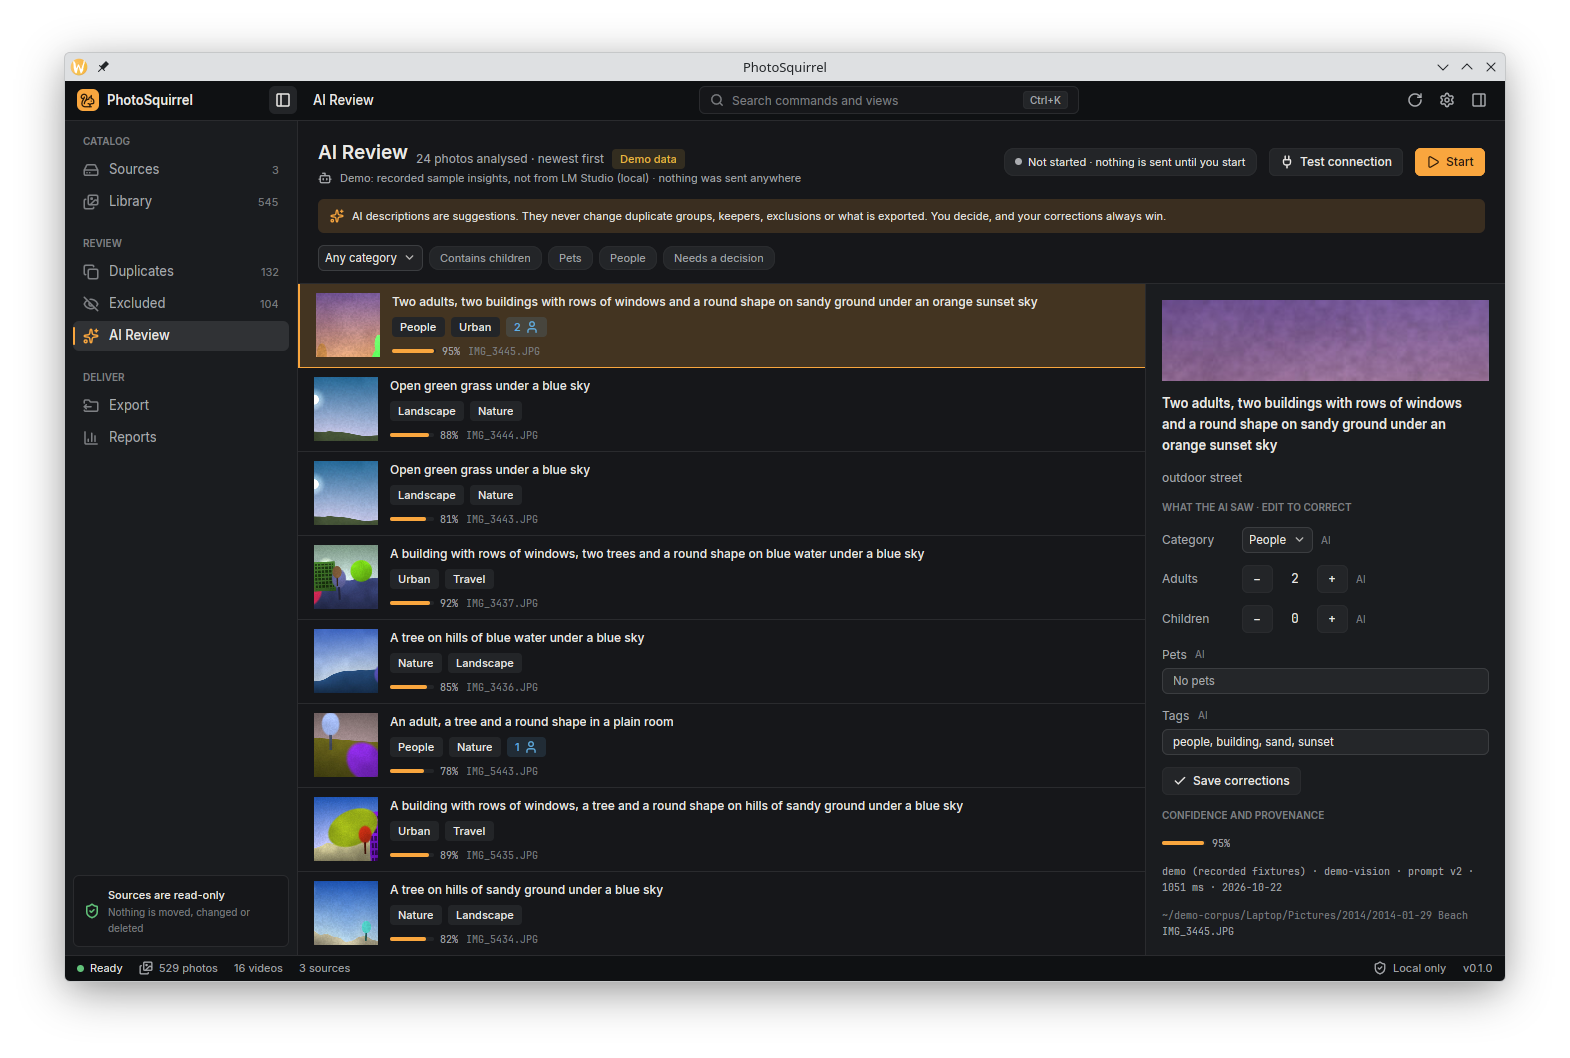
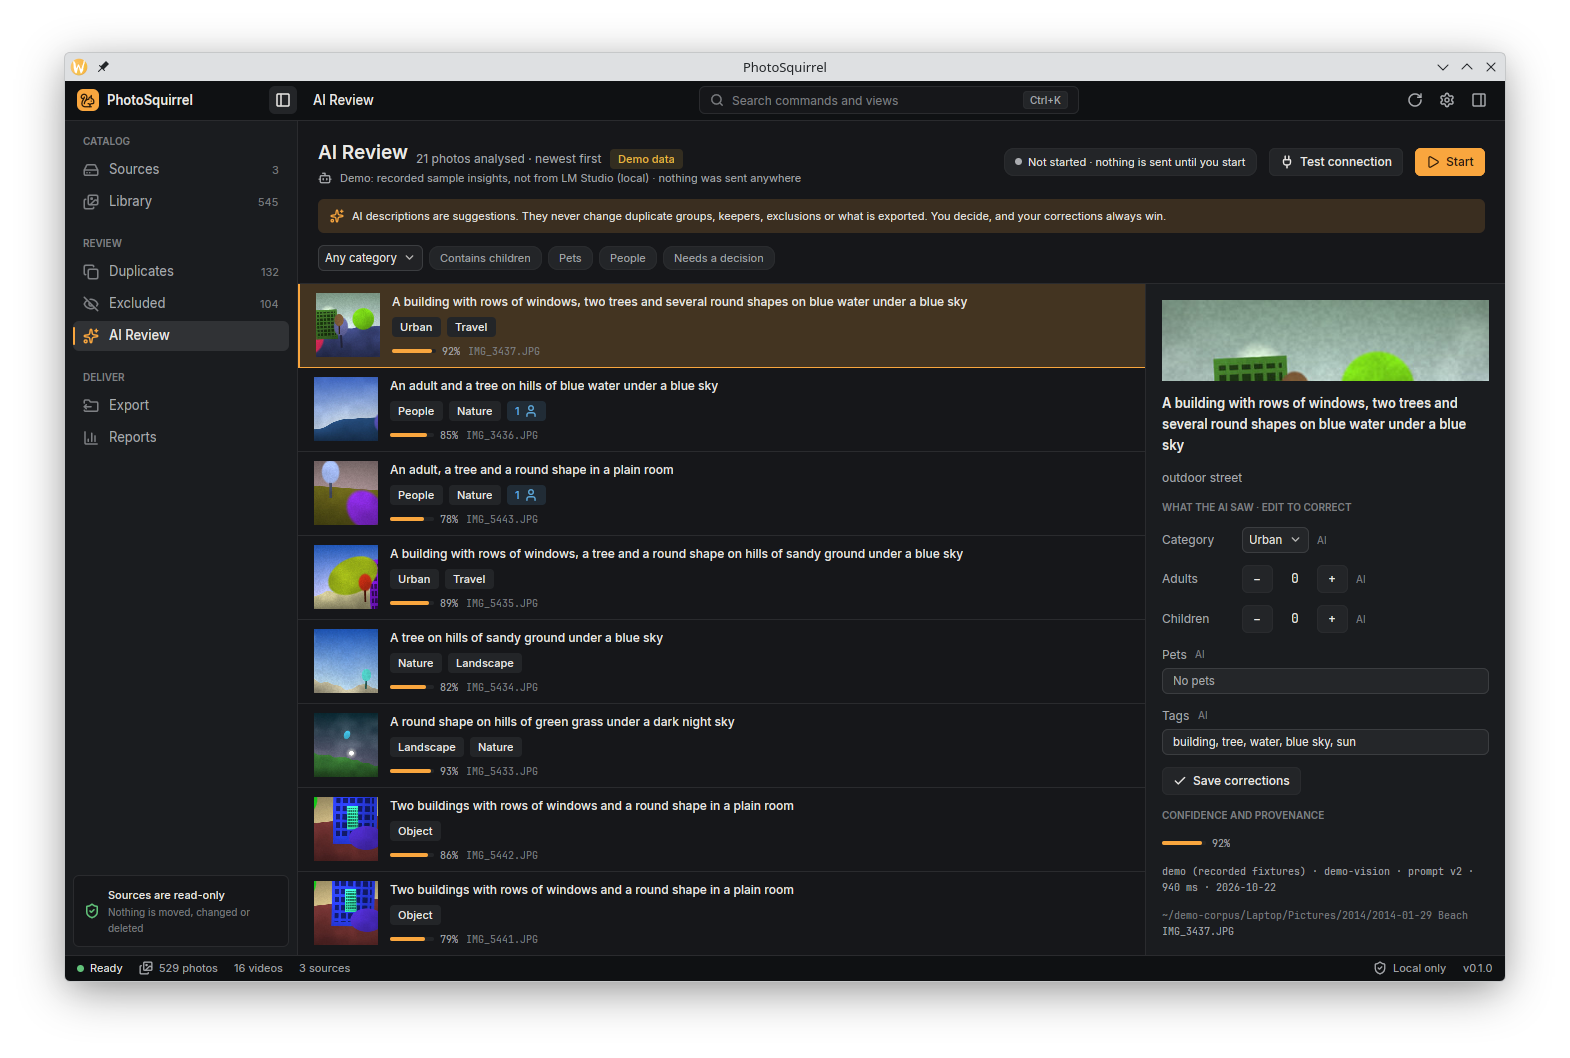
Demo insights describe the frame; recapture three README screenshots
- Demo AI descriptions counted the shapes of a 4:3 frame for every image,
  so portrait shots were described with shapes outside the frame (the
  AI Review screenshot's selected row). The summary now uses each shot's
  display aspect (FramedScene).
- PHOTOSQUIRREL_REVIEW_GROUP (dev-only, like PHOTOSQUIRREL_REVIEW_TAB)
  opens Duplicates on a given list index, scrolled to and primed, for
  scripted screenshots.
- Recaptured on the demo library: AI Review with a row whose image matches
  its description; Duplicates with a clear decision (more pixels against a
  resized copy) instead of an exact-copy tie decided by folder depth; the
  scan dashboard in a taller window so the sources of the run show.

Claude-Session: https://claude.ai/code/session_01XRBTstf5nEQw24ksDZxYk2

diff --git a/crates/ps-fixtures/src/synth.rs b/crates/ps-fixtures/src/synth.rs
@@ -446,12 +446,21 @@ pub struct SceneSummary {
 
 /// A person this tall (in image heights) or taller reads as an adult.
 const ADULT_HEIGHT: f32 = 0.16;
-/// Shapes whose centre lies further out than this (image heights from the centre) are mostly out of frame.
-const IN_FRAME_X: f32 = 0.62;
+/// Shapes whose centre lies within this distance (image heights) of the frame's left or right edge, or beyond
+/// it, are mostly out of frame.
+const IN_FRAME_MARGIN: f32 = 0.05;
 
 impl Scene {
-    /// What this scene shows ([`SceneSummary`]). Shapes centred outside the frame are not counted.
+    /// What this scene shows in a 4:3 landscape frame ([`Scene::summary_in`]).
     pub fn summary(&self) -> SceneSummary {
+        self.summary_in(4.0 / 3.0)
+    }
+
+    /// What this scene shows in a frame of `aspect` (width / height) ([`SceneSummary`]). x is in image heights
+    /// from the centre, so a portrait frame shows a narrower part of the scene; shapes centred outside the
+    /// frame (or at its very edge) are not counted.
+    pub fn summary_in(&self, aspect: f32) -> SceneSummary {
+        let in_frame = aspect / 2.0 - IN_FRAME_MARGIN;
         let mut s = SceneSummary {
             indoor: self.indoor,
             adults: 0,
@@ -468,7 +477,7 @@ impl Scene {
             hills: !self.indoor && self.hill_amp > 0.09,
             sun: self.sun.is_some(),
         };
-        for sh in self.shapes.iter().filter(|sh| sh.cx.abs() <= IN_FRAME_X) {
+        for sh in self.shapes.iter().filter(|sh| sh.cx.abs() <= in_frame) {
             match sh.kind {
                 ShapeKind::Person if sh.ry >= ADULT_HEIGHT => s.adults += 1,
                 ShapeKind::Person => s.children += 1,
@@ -753,6 +762,33 @@ pub fn render(scene: &Scene, p: &Perturb, width: u32, height: u32) -> Rgb {
 mod tests {
     use super::*;
     use crate::rng::derive;
+
+    #[test]
+    fn a_portrait_frame_counts_only_the_shapes_inside_it() {
+        let mut scene = Scene::random(&mut derive(3, "s", 0));
+        let shape = |kind, cx| Shape {
+            kind,
+            cx,
+            cy: 0.1,
+            rx: 0.05,
+            ry: 0.2,
+            rot: (1.0, 0.0),
+            color: [200.0, 100.0, 50.0],
+            shade: 0.0,
+            soft: 0.0,
+        };
+        scene.shapes = vec![
+            shape(ShapeKind::Person, -0.2),
+            shape(ShapeKind::Building, 0.5),
+            shape(ShapeKind::Tree, 0.31),
+        ];
+        let wide = scene.summary_in(1.5);
+        assert_eq!((wide.adults, wide.buildings, wide.trees), (1, 1, 1));
+        // 2:3 portrait: half the width is 0.33 image heights; the tree at 0.31 sits on the edge.
+        let tall = scene.summary_in(2.0 / 3.0);
+        assert_eq!((tall.adults, tall.buildings, tall.trees), (1, 0, 0));
+        assert_eq!(scene.summary(), scene.summary_in(4.0 / 3.0));
+    }
 
     #[test]
     fn render_is_deterministic_and_textured() {

diff --git a/crates/ps-fixtures/src/plan.rs b/crates/ps-fixtures/src/plan.rs
@@ -395,14 +395,36 @@ struct Planner {
     wa_counter: u32,
 }
 
-/// The scene each true group (`truth.json` `group`) was rendered from: camera shots and scanned prints. Crops
-/// show only part of a scene and are left out. Demo data uses it to describe each image truthfully.
-pub fn scenes_by_group(plan: &Plan) -> std::collections::HashMap<String, Scene> {
+/// A scene and the frame it was rendered into.
+#[derive(Clone, Debug, PartialEq)]
+pub struct FramedScene {
+    pub scene: Scene,
+    /// Display width / height (orientation applied).
+    pub aspect: f32,
+}
+
+impl FramedScene {
+    fn new(scene: &Scene, (w, h): (u32, u32)) -> Self {
+        Self {
+            scene: scene.clone(),
+            aspect: w as f32 / h.max(1) as f32,
+        }
+    }
+
+    /// What the image shows: the scene's shapes inside this frame.
+    pub fn summary(&self) -> crate::synth::SceneSummary {
+        self.scene.summary_in(self.aspect)
+    }
+}
+
+/// The scene each true group (`truth.json` `group`) was rendered from, with its frame: camera shots and scanned
+/// prints. Crops show only part of a scene and are left out. Demo data uses it to describe each image truthfully.
+pub fn scenes_by_group(plan: &Plan) -> std::collections::HashMap<String, FramedScene> {
     plan.tasks
         .iter()
         .filter_map(|t| match t {
-            Task::Shot(s) => Some((s.group.clone(), s.scene.clone())),
-            Task::Scan(s) => Some((s.group.clone(), s.scene.clone())),
+            Task::Shot(s) => Some((s.group.clone(), FramedScene::new(&s.scene, s.display))),
+            Task::Scan(s) => Some((s.group.clone(), FramedScene::new(&s.scene, s.display))),
             _ => None,
         })
         .collect()
@@ -414,7 +436,7 @@ pub fn scenes_by_group(plan: &Plan) -> std::collections::HashMap<String, Scene> 
 /// left out (they show part of a scene).
 pub fn scenes_by_content(
     truth: &crate::truth::Truth,
-) -> Option<std::collections::HashMap<String, Scene>> {
+) -> Option<std::collections::HashMap<String, FramedScene>> {
     use crate::truth::Category;
     let preset = Preset::parse(&truth.preset)?;
     let plan = plan(truth.seed, preset);

diff --git a/crates/ui-workspace/src/views/duplicates.rs b/crates/ui-workspace/src/views/duplicates.rs
@@ -295,10 +295,17 @@ impl DuplicatesView {
             return true;
         };
         let (filter, sort) = (self.filter, self.sort);
+        // Dev-only: scripted screenshots of a particular group (list index; the first by default).
+        let pick = std::env::var("PHOTOSQUIRREL_REVIEW_GROUP")
+            .ok()
+            .and_then(|v| v.parse::<usize>().ok())
+            .unwrap_or(0);
         let Some((list, detail, suggestions)) =
             crate::startup::StartupGrace::within(deadline, move || {
                 let list = src.groups(filter, sort).ok();
-                let first = list.as_ref().and_then(|l| l.rows.first().map(|r| r.id));
+                let first = list
+                    .as_ref()
+                    .and_then(|l| l.rows.get(pick).or(l.rows.first()).map(|r| r.id));
                 let detail = first.and_then(|id| src.group(id).ok());
                 (list, detail, src.suggestions(500).ok())
             })
@@ -307,14 +314,17 @@ impl DuplicatesView {
         };
         let in_time = || std::time::Instant::now() < deadline;
         if let Some(list) = list {
-            for r in list.rows.iter().take(16) {
+            for r in list.rows.iter().skip(pick.saturating_sub(12)).take(16) {
                 if let Some(t) = r.thumb
                     && in_time()
                 {
                     self.images.prime_thumb(t);
                 }
             }
-            self.selected = list.rows.first().map(|r| r.id);
+            self.selected = list.rows.get(pick).or(list.rows.first()).map(|r| r.id);
+            if pick > 0 && pick < list.rows.len() {
+                self.scroll.scroll_to_item(pick, ScrollStrategy::Center);
+            }
             self.list = Some(Rc::new(list));
         }
         if let Some(d) = detail {

diff --git a/crates/ps-fixtures/tests/corpus.rs b/crates/ps-fixtures/tests/corpus.rs
@@ -862,13 +862,21 @@ fn scenes_by_content_match_the_truth() {
             .unwrap_or_else(|| panic!("no scene for {}", f.path));
         let s = scene.summary();
         let drawn = |k: ps_fixtures::synth::ShapeKind| {
-            scene.shapes.iter().filter(|sh| sh.kind == k).count() as u32
+            scene.scene.shapes.iter().filter(|sh| sh.kind == k).count() as u32
         };
+        // A portrait frame shows no more of the scene than a landscape one.
+        if scene.aspect < 1.0 {
+            let wide = scene.scene.summary_in(1.0 / scene.aspect);
+            assert!(
+                s.adults + s.children + s.buildings + s.trees
+                    <= wide.adults + wide.children + wide.buildings + wide.trees
+            );
+        }
         assert!(s.adults + s.children <= drawn(ps_fixtures::synth::ShapeKind::Person));
         assert!(s.buildings <= drawn(ps_fixtures::synth::ShapeKind::Building));
         assert!(s.trees <= drawn(ps_fixtures::synth::ShapeKind::Tree));
-        assert_eq!(s.indoor, scene.indoor);
-        assert_eq!(s.sky.is_none(), scene.indoor);
+        assert_eq!(s.indoor, scene.scene.indoor);
+        assert_eq!(s.sky.is_none(), scene.scene.indoor);
     }
     // Derivatives of an original share its scene.
     let by_group: BTreeMap<&str, &str> = originals
